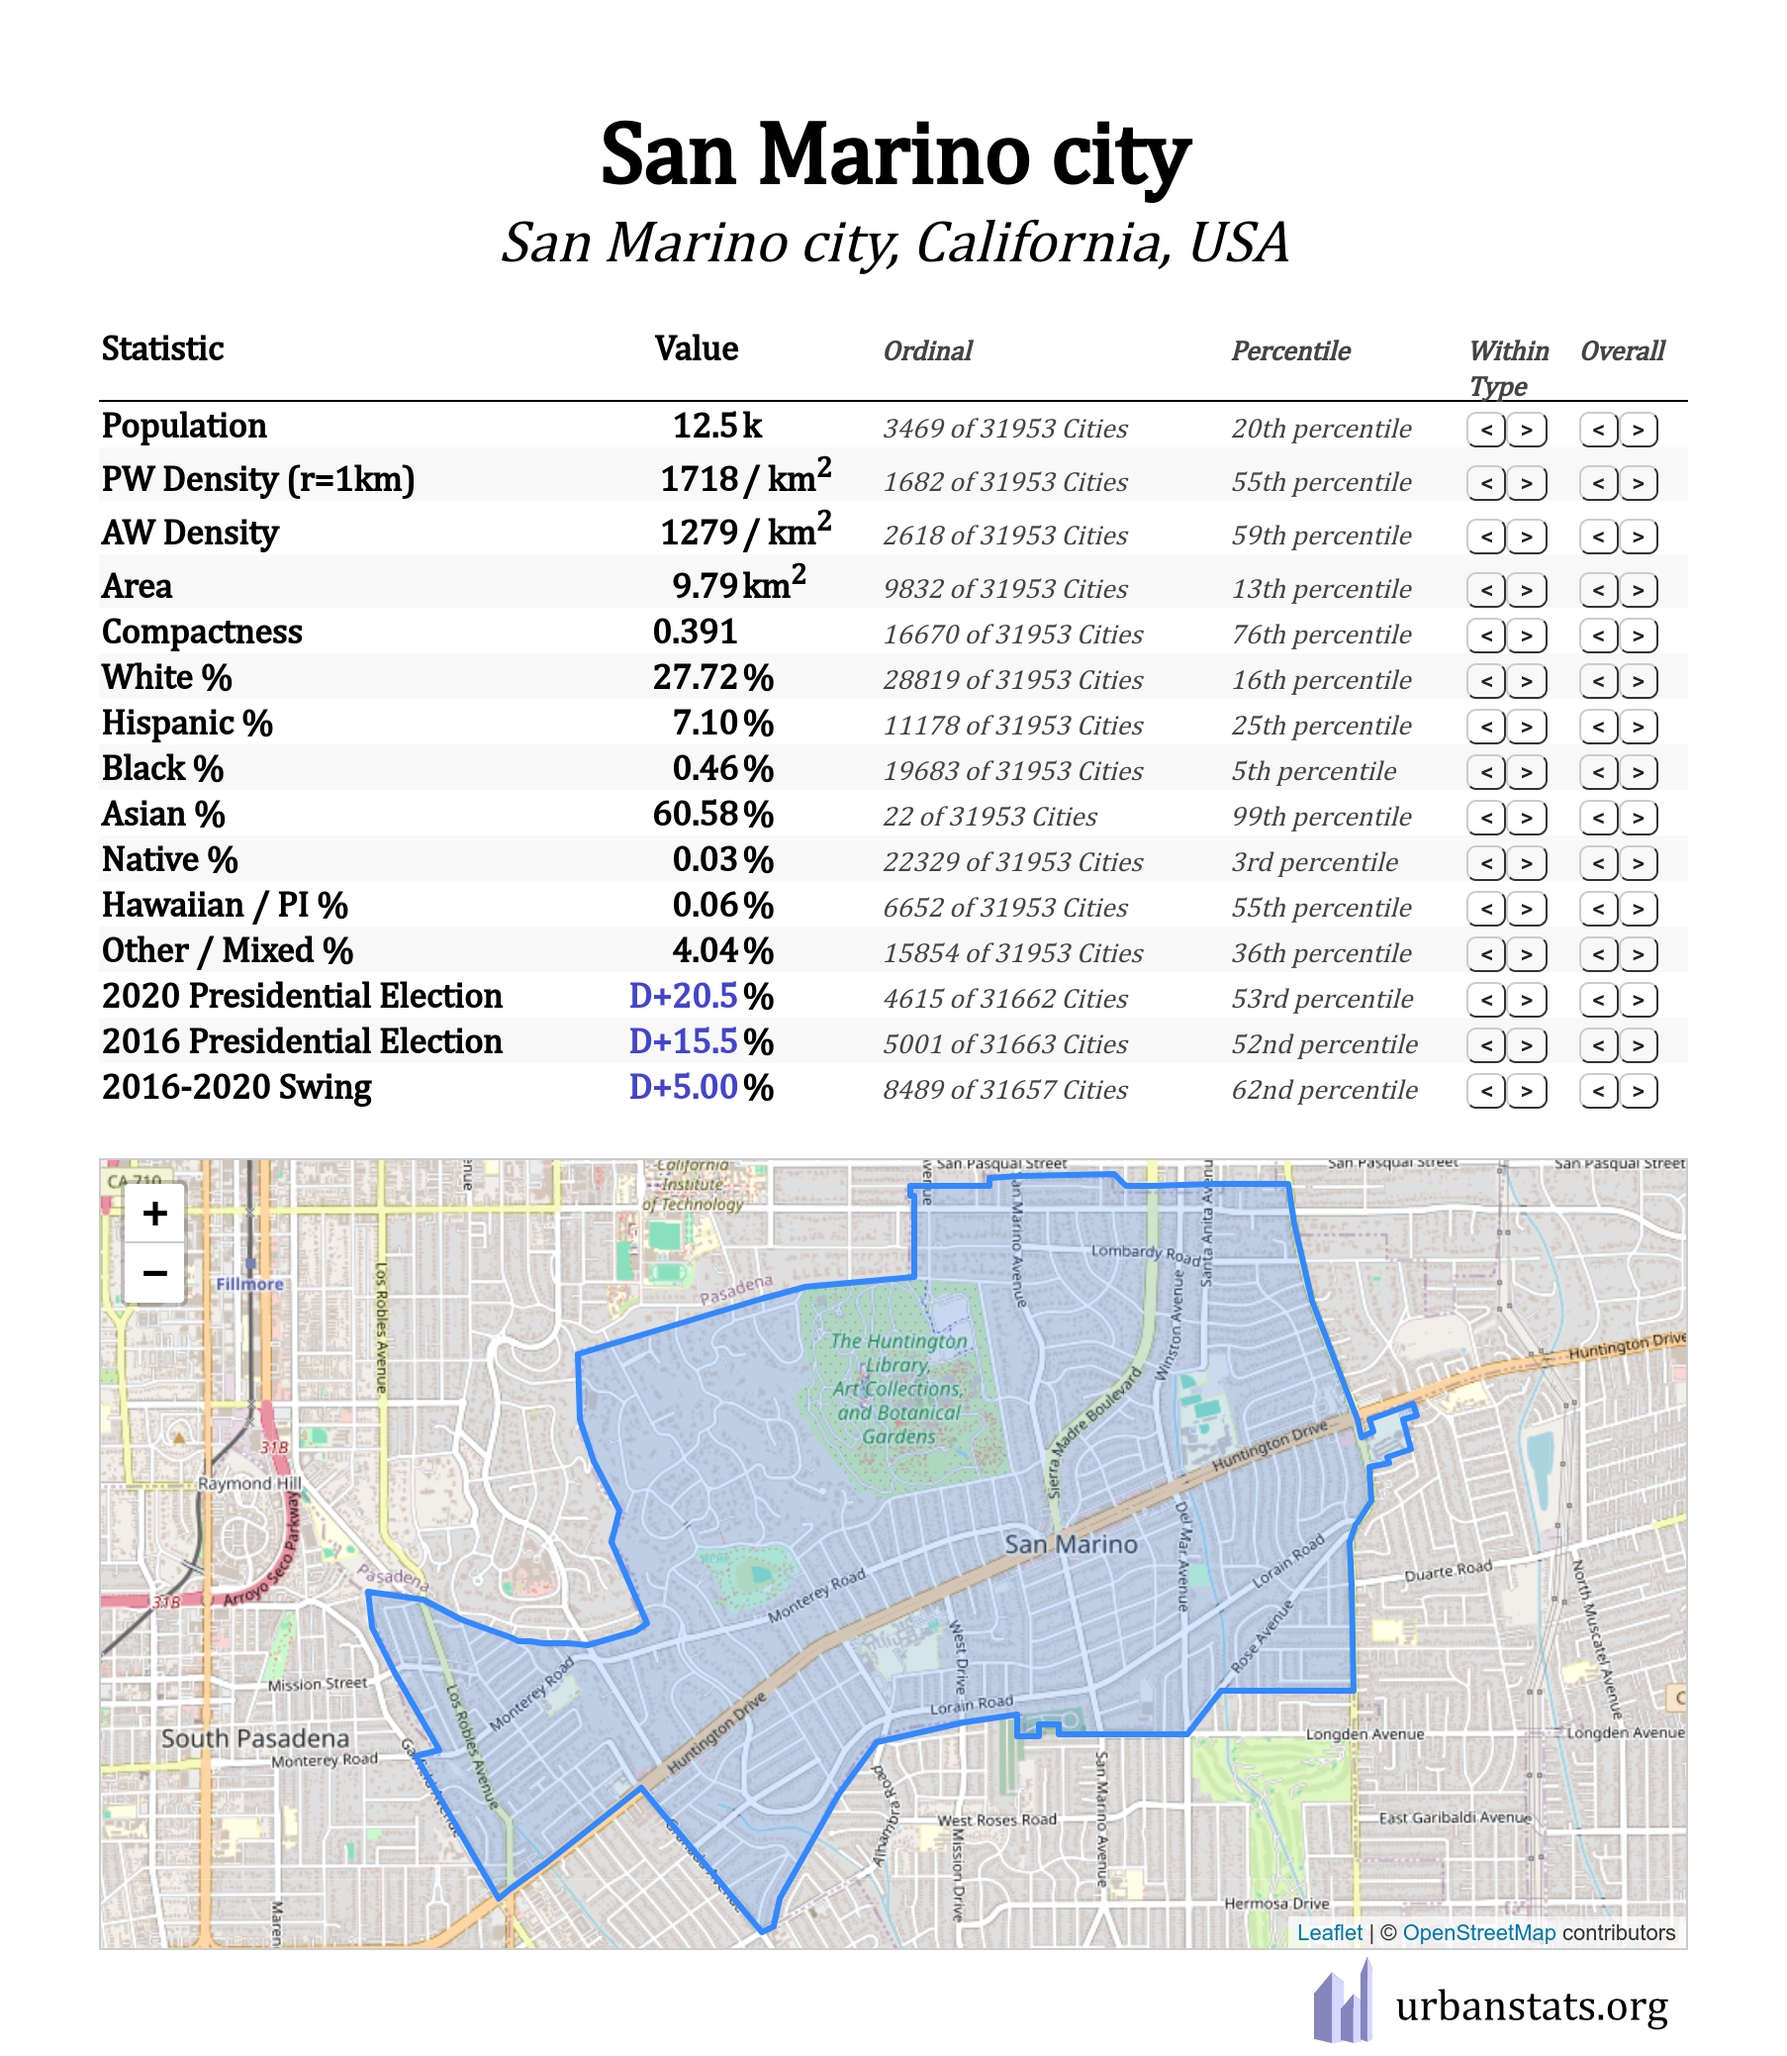
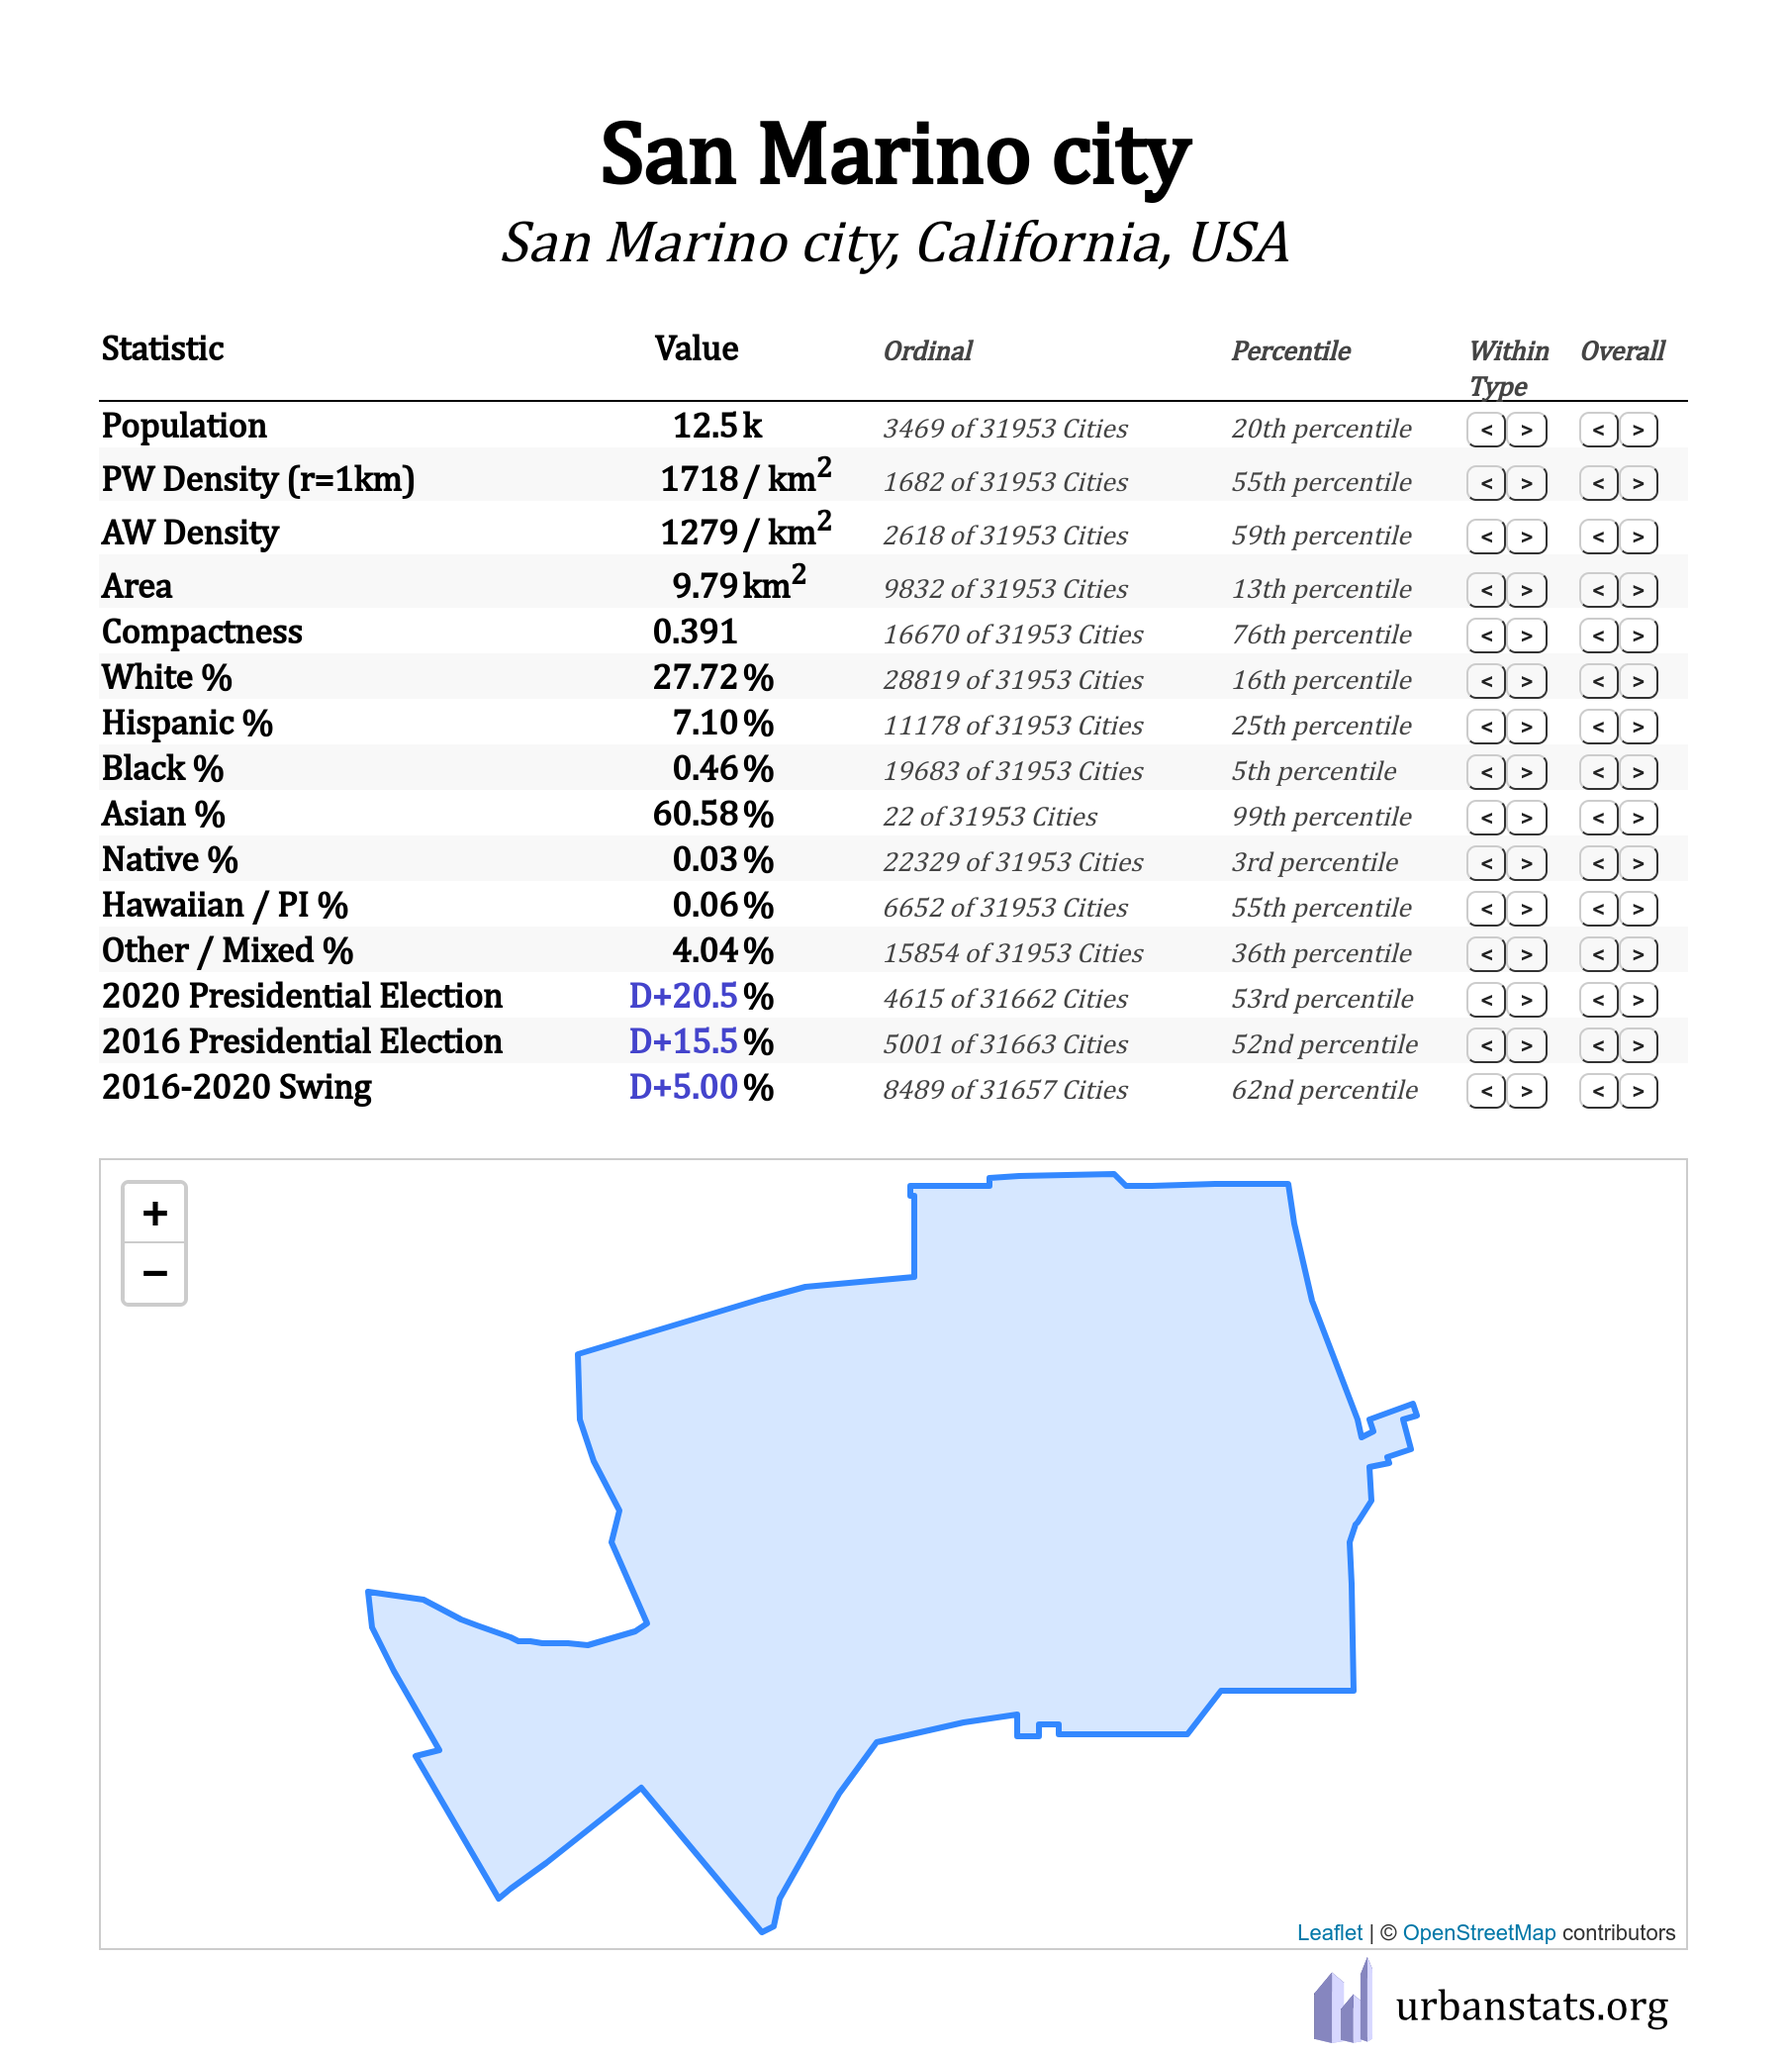
update

Changed region(s): [[0.031, 0.5546, 0.9612, 0.9552]]

diff --git a/react/test/article_test.js b/react/test/article_test.js
@@ -3,19 +3,32 @@ import { Selector, ClientFunction } from 'testcafe';
 const SEARCH_FIELD = Selector('input').withAttribute('placeholder', 'Search Urban Stats');
 const getLocation = ClientFunction(() => document.location.href);
 
-async function screencap(t, name) {
+async function prep_for_image(t) {
     await t.eval(() => {
         // disable the leaflet map
         for (const x of document.getElementsByClassName("leaflet-tile-pane")) {
             x.remove();
         }
     });
+}
+
+async function screencap(t, name) {
+    await prep_for_image(t)
     return await t.takeScreenshot({
         // include the browser name in the screenshot path
         path: name + '_' + t.browser.name + '.png',
         fullPage: true,
         thumbnails: false
     })
+}
+
+async function download_image(t, name) {
+    const download = Selector('img').withAttribute('src', '/screenshot.png');
+    await prep_for_image(t);
+    await t
+        .click(download);
+    await t.wait(3000);
+    await copy_most_recent_file(t, name);
 }
 
 async function copy_most_recent_file(t, name) {
@@ -184,9 +197,5 @@ test('simple', async t => {
 })
 
 test('download-article', async t => {
-    const download = Selector('img').withAttribute('src', '/screenshot.png');
-    await t
-        .click(download);
-    await t.wait(3000);
-    await copy_most_recent_file(t, "article/download-article");  
+    await download_image(t, "article/download-article");
 })
